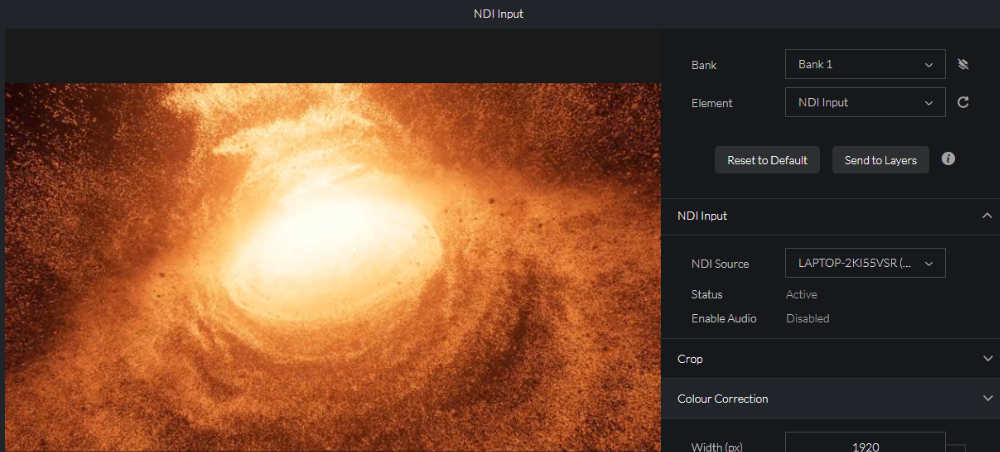
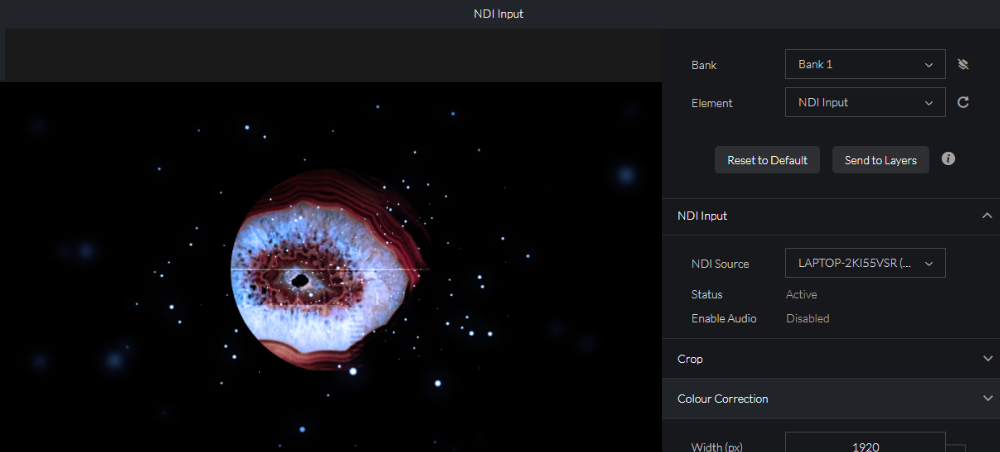
changes made as per PR comments

diff --git a/prismdocs/player/quick-start/navigation.md b/prismdocs/player/quick-start/navigation.md
@@ -6,11 +6,19 @@ sidebar_label: Navigation
 
 import Keys from '@site/src/components/key.ts';
 
-**Prism Player**'s user interface is organized into three main sections:
+**Prism Player**'s user interface is organised into three main sections:
 
-- [Main Menu](#header-menu)
+- [Main Menu](#main-menu)
+  - [App Logo](#app-logo)
+  - [File](#file)
+  - [Edit](#edit)
+  - [View](#view)
+  - [Audio](#audio)
+  - [Video](#video)
+  - [Help](#help)
 - [View Tabs](#view-tabs)
 - [Status Bar](#status-bar)
+- [Multi Selection](#multi-selection)
 
 ## Main Menu
 ![Prism Player File Menu Open Recent](/prism-images/navigation/player-header-menu.png)
@@ -109,7 +117,7 @@ This bar shows the following app informations at a glance.
 
 - App performance metrics - The full performance metrics are shown in the [System Info](../settings/settings-system-info.md) page in **Settings**.
 - Prism Player release version.
-- User interface connection status LED - red when disconnected, green when connected to the Server.
+- User interface connection status indicator - red when disconnected, green when connected to the Server.
 
 ## Multi Selection
 

diff --git a/prismdocs/prism/quick-start/navigation.md b/prismdocs/prism/quick-start/navigation.md
@@ -6,11 +6,19 @@ sidebar_label: Navigation
 
 import Keys from '@site/src/components/key.ts';
 
-**Prism**'s user interface is organized into three main sections:
+**Prism**'s user interface is organised into three main sections:
 
-- [Main Menu](#header-menu)
+- [Main Menu](#main-menu)
+  - [App Logo](#app-logo)
+  - [File](#file)
+  - [Edit](#edit)
+  - [View](#view)
+  - [Audio](#audio)
+  - [Video](#video)
+  - [Help](#help)
 - [View Tabs](#view-tabs)
 - [Status Bar](#status-bar)
+- [Multi Selection](#multi-selection)
 
 ## Main Menu
 ![Prism File Menu Open Recent](/prism-images/navigation/prism-header-menu.png)
@@ -111,7 +119,7 @@ This bar shows the following app informations at a glance.
 
 - App performance metrics - The full performance metrics are shown in the [System Info](../settings/settings-system-info.md) page in **Settings**.
 - Prism release version.
-- User interface connection status LED - red when disconnected, green when connected to the Server.
+- User interface connection status indicator - red when disconnected, green when connected to the Server.
 
 ## Multi Selection
 

diff --git a/prismdocs/shared/quick-start/navigation.md b/prismdocs/shared/quick-start/navigation.md
@@ -6,11 +6,19 @@ sidebar_label: Navigation
 
 import Keys from '@site/src/components/key.ts';
 
-**{{PRISM-APP}}**'s user interface is organized into three main sections:
+**{{PRISM-APP}}**'s user interface is organised into three main sections:
 
-- [Main Menu](#header-menu)
+- [Main Menu](#main-menu)
+  - [App Logo](#app-logo)
+  - [File](#file)
+  - [Edit](#edit)
+  - [View](#view)
+  - [Audio](#audio)
+  - [Video](#video)
+  - [Help](#help)
 - [View Tabs](#view-tabs)
 - [Status Bar](#status-bar)
+- [Multi Selection](#multi-selection)
 
 ## Main Menu
 ![{{PRISM-APP}} File Menu Open Recent](/prism-images/navigation/{{PRISM-APP-LOWER}}-header-menu.png)
@@ -163,7 +171,7 @@ This bar shows the following app informations at a glance.
 
 - App performance metrics - The full performance metrics are shown in the [System Info](../settings/settings-system-info.md) page in **Settings**.
 - {{PRISM-APP}} release version.
-- User interface connection status LED - red when disconnected, green when connected to the Server.
+- User interface connection status indicator - red when disconnected, green when connected to the Server.
 
 ## Multi Selection
 

diff --git a/prismdocs/prism/play/layer-controls.md b/prismdocs/prism/play/layer-controls.md
@@ -18,6 +18,7 @@ Similar to the [Preview](../quick-start/preview.md#adjustments) adjustments, the
 - [Colour Correction](#colour-correction)
 - [Transformation](#transformation)
 - [Rendering](#rendering)
+  - [Virtual Return Properties](#virtual-return-properties)
 
 Any adjustment made will directly change the layer properties, triggering a bank element may override this, if any changes were made in the [Preview](../quick-start/preview.md).
 
@@ -67,7 +68,7 @@ The **Player Controls** has check boxes against its properties so that users can
 |   Item                   |  Description  |
 |------------------------------|---------- |
 | **Cross Fade Duration**      | Cross Fade Duration of the layer.  |
-|  **Play Modes** | <Keys.PrismKey>Play List</Keys.PrismKey> - Play through all the media in the bank that the current element belongs to. <br/> <Keys.PrismKey>Loop</Keys.PrismKey> - Continuously play the same media element.<br/><Keys.PrismKey>Shuffle</Keys.PrismKey> - Randomly select and play media from the bank that the element belongs to.<br/><Keys.PrismKey>Play Once</Keys.PrismKey> - Play the media once and then display the last frame.<br/><Keys.PrismKey>Pause</Keys.PrismKey> - Stay on the current frame.<br/> <Keys.PrismKey>In Frame</Keys.PrismKey> - Display the first frame.<br/> <Keys.PrismKey>Out Frame</Keys.PrismKey> - Display the last frame. <br/>  <Keys.PrismKey>Timecode</Keys.PrismKey> - Allows playback to be synchronized to an external or internal timecode signal.|
+|  **Play Modes** | <Keys.PrismKey>Play List</Keys.PrismKey> - Play through all the media in the bank that the current element belongs to. <br/> <Keys.PrismKey>Loop</Keys.PrismKey> - Continuously play the same media element.<br/><Keys.PrismKey>Shuffle</Keys.PrismKey> - Randomly select and play media from the bank that the element belongs to.<br/><Keys.PrismKey>Play Once</Keys.PrismKey> - Play the media once and then display the last frame.<br/><Keys.PrismKey>Pause</Keys.PrismKey> - Stay on the current frame.<br/> <Keys.PrismKey>In Frame</Keys.PrismKey> - Display the first frame.<br/> <Keys.PrismKey>Out Frame</Keys.PrismKey> - Display the last frame. <br/>  <Keys.PrismKey>Timecode</Keys.PrismKey> - Allows playback to be synchronised to an external or internal timecode signal.|
 | **Aspect Modes**              | - **Fit**: Adjusts the content to **cover the entire surface, distorting** it if necessary. It does **not preserve the aspect ratio**, but ensures **no cropping** and **no black bars**. <br/> - **Box**: Adjusts the content to **fit entirely within the surface** while **preserving aspect ratio**. This ensures the whole content is visible, without cropping or distortion, but may introduce **black bars** (letterboxing or pillarboxing) to fill unused space.<br/> - **Center**: Adjusts the content to **fill the surface** while **preserving its original aspect ratio**. This may result in **cropping** around the edges. The content remains **centered** and is **not distorted**.<br/> - **Window**: Displays the content at its **original resolution and aspect ratio**, without any scaling. If the content is larger than the surface, parts of it may be **cropped**. There is **no distortion** and **no scaling** applied.|
 | **Trim In (%)** | Trim In of the layer. |
 | **Trim Out (%)** | Trim Out of the layer. |
@@ -127,7 +128,7 @@ This area controls the **Rendering** of Synergy Pixel Map texture.
 | <p style={{width: '150px', margin: '0'}}>Item</p> |  Description |
 |-----------------|------------|
 | **Render Layer** | Toggle the visibility of the layer. |
-| **Blend Modes**  | Blend mode is used to determine how multiple layers are combined to create a final visual result on a Surface. It controls how the pixel colours of one layer interact with the pixels of layers beneath it.<br/><br/> - **Additive**: Combines the values of the pixels, creating a blended image. <br/> - **Alpha (Default)**: Allows the use of transparent areas which need to be specified when created. <br/> - **Darken**: Keeps the darkest colour from the blended Layers.<br/> -  **Difference**: Subtracts one colour value from the other and uses the result as the pixel colour to display. <br/> - **Exclude**: Similar to Difference mode but with lower contrast.<br/> - **Intensity Mix**: Blends Layers based on their intensity<br/> - **Inverse Luma**: Excludes areas of the image based on the luminosity of the pixels and the specified threshold.<br/> - **Inverse Mask**: Uses the layer as a mask for the layer below showing the image in the dark areas.<br/> - **Lighten**: Shows the highest of each colour component used across layers.<br/> - **Luma**: Excludes areas of the image based on the luminosity of the pixels and the specified threshold.<br/> - **Mask**: Uses the layer as a mask for the layer below showing the image in the light areas.<br/> - **Multiply**: Takes the values of the images, multiplys them together and returns the resulting value.<br/> - **Not Additive Mixing**: Non Additive Mixing shows the brightest pixel of the layers.<br/> - **Opaque**: Fully solid with no transparency.<br/> - **Screen** : Takes the values of the pixels in the two layers inverts, multiplys, and then inverts them again.<br/> - **Subtract**: The value of one layer is taken from the other layer. The resulting number is then used for the colour value.<br/> - **Tom Mask**: When fully applied, it completely masks the layer below, functioning similarly to Multiply. Can fix issues when multiplying by 0.<br/><br/>*Note: Final result will depend on the [render order](../settings/settings-playback#renderer)*|
+| **Blend Modes**  | Blend mode is used to determine how multiple layers are combined to create a final visual result on a Surface. It controls how the pixel colours of one layer interact with the pixels of layers beneath it.<br/><br/> - **Additive**: Combines the values of the pixels, creating a blended image. <br/> - **Alpha (Default)**: Allows the use of transparent areas which need to be specified when created. <br/> - **Darken**: Keeps the darkest colour from the blended Layers.<br/> -  **Difference**: Subtracts one colour value from the other and uses the result as the pixel colour to display. <br/> - **Exclude**: Similar to Difference mode but with lower contrast.<br/> - **Intensity Mix**: Blends Layers based on their intensity<br/> - **Inverse Luma**: Excludes areas of the image based on the luminosity of the pixels and the specified threshold.<br/> - **Inverse Mask**: Uses the layer as a mask for the layer below showing the image in the dark areas.<br/> - **Lighten**: Shows the highest of each colour component used across layers.<br/> - **Luma**: Excludes areas of the image based on the luminosity of the pixels and the specified threshold.<br/> - **Mask**: Uses the layer as a mask for the layer below showing the image in the light areas.<br/> - **Multiply**: Takes the values of the images, multiplies them together and returns the resulting value.<br/> - **Not Additive Mixing**: Non Additive Mixing shows the brightest pixel of the layers.<br/> - **Opaque**: Fully solid with no transparency.<br/> - **Screen** : Takes the values of the pixels in the two layers inverts, multiplies, and then inverts them again.<br/> - **Subtract**: The value of one layer is taken from the other layer. The resulting number is then used for the colour value.<br/> - **Tom Mask**: When fully applied, it completely masks the layer below, functioning similarly to Multiply. Can fix issues when multiplying by 0.<br/><br/>*Note: Final result will depend on the [render order](../settings/settings-playback#renderer)*|
 | **Blend Amount (%)** | The blend amount controls the transition between the source (blended layer) and the destination (background layer) when applying a blend mode. It determines how much influence the blended source has over the final output, effectively interpolating between the two. When the blend amount is set to zero, the operation acts as a pass-through, meaning the destination remains unchanged, as no blending is applied.  |
 | **Enable Adjustments** | Enable / disable Layer adjustments e.g crop, colour correction, transformations.|
 

diff --git a/prismdocs/shared/play/layer-controls.md b/prismdocs/shared/play/layer-controls.md
@@ -18,6 +18,7 @@ Similar to the [Preview](../quick-start/preview.md#adjustments) adjustments, the
 - [Colour Correction](#colour-correction)
 - [Transformation](#transformation)
 - [Rendering](#rendering)
+  - [Virtual Return Properties](#virtual-return-properties)
 
 Any adjustment made will directly change the layer properties, triggering a bank element may override this, if any changes were made in the [Preview](../quick-start/preview.md).
 
@@ -68,7 +69,7 @@ The **Player Controls** has check boxes against its properties so that users can
 |   Item                   |  Description  |
 |------------------------------|---------- |
 | **Cross Fade Duration**      | Cross Fade Duration of the layer.  |
-|  **Play Modes** | <Keys.PrismKey>Play List</Keys.PrismKey> - Play through all the media in the bank that the current element belongs to. <br/> <Keys.PrismKey>Loop</Keys.PrismKey> - Continuously play the same media element.<br/><Keys.PrismKey>Shuffle</Keys.PrismKey> - Randomly select and play media from the bank that the element belongs to.<br/><Keys.PrismKey>Play Once</Keys.PrismKey> - Play the media once and then display the last frame.<br/><Keys.PrismKey>Pause</Keys.PrismKey> - Stay on the current frame.<br/> <Keys.PrismKey>In Frame</Keys.PrismKey> - Display the first frame.<br/> <Keys.PrismKey>Out Frame</Keys.PrismKey> - Display the last frame. <br/>  <Keys.PrismKey>Timecode</Keys.PrismKey> - Allows playback to be synchronized to an external or internal timecode signal.|
+|  **Play Modes** | <Keys.PrismKey>Play List</Keys.PrismKey> - Play through all the media in the bank that the current element belongs to. <br/> <Keys.PrismKey>Loop</Keys.PrismKey> - Continuously play the same media element.<br/><Keys.PrismKey>Shuffle</Keys.PrismKey> - Randomly select and play media from the bank that the element belongs to.<br/><Keys.PrismKey>Play Once</Keys.PrismKey> - Play the media once and then display the last frame.<br/><Keys.PrismKey>Pause</Keys.PrismKey> - Stay on the current frame.<br/> <Keys.PrismKey>In Frame</Keys.PrismKey> - Display the first frame.<br/> <Keys.PrismKey>Out Frame</Keys.PrismKey> - Display the last frame. <br/>  <Keys.PrismKey>Timecode</Keys.PrismKey> - Allows playback to be synchronised to an external or internal timecode signal.|
 | **Aspect Modes**              | - **Fit**: Adjusts the content to **cover the entire surface, distorting** it if necessary. It does **not preserve the aspect ratio**, but ensures **no cropping** and **no black bars**. <br/> - **Box**: Adjusts the content to **fit entirely within the surface** while **preserving aspect ratio**. This ensures the whole content is visible, without cropping or distortion, but may introduce **black bars** (letterboxing or pillarboxing) to fill unused space.<br/> - **Center**: Adjusts the content to **fill the surface** while **preserving its original aspect ratio**. This may result in **cropping** around the edges. The content remains **centered** and is **not distorted**.<br/> - **Window**: Displays the content at its **original resolution and aspect ratio**, without any scaling. If the content is larger than the surface, parts of it may be **cropped**. There is **no distortion** and **no scaling** applied.|
 | **Trim In (%)** | Trim In of the layer. |
 | **Trim Out (%)** | Trim Out of the layer. |
@@ -129,7 +130,7 @@ This area controls the **Rendering** of Synergy Pixel Map texture.
 | <p style={{width: '150px', margin: '0'}}>Item</p> |  Description |
 |-----------------|------------|
 | **Render Layer** | Toggle the visibility of the layer. |
-| **Blend Modes**  | Blend mode is used to determine how multiple layers are combined to create a final visual result on a Surface. It controls how the pixel colours of one layer interact with the pixels of layers beneath it.<br/><br/> - **Additive**: Combines the values of the pixels, creating a blended image. <br/> - **Alpha (Default)**: Allows the use of transparent areas which need to be specified when created. <br/> - **Darken**: Keeps the darkest colour from the blended Layers.<br/> -  **Difference**: Subtracts one colour value from the other and uses the result as the pixel colour to display. <br/> - **Exclude**: Similar to Difference mode but with lower contrast.<br/> - **Intensity Mix**: Blends Layers based on their intensity<br/> - **Inverse Luma**: Excludes areas of the image based on the luminosity of the pixels and the specified threshold.<br/> - **Inverse Mask**: Uses the layer as a mask for the layer below showing the image in the dark areas.<br/> - **Lighten**: Shows the highest of each colour component used across layers.<br/> - **Luma**: Excludes areas of the image based on the luminosity of the pixels and the specified threshold.<br/> - **Mask**: Uses the layer as a mask for the layer below showing the image in the light areas.<br/> - **Multiply**: Takes the values of the images, multiplys them together and returns the resulting value.<br/> - **Not Additive Mixing**: Non Additive Mixing shows the brightest pixel of the layers.<br/> - **Opaque**: Fully solid with no transparency.<br/> - **Screen** : Takes the values of the pixels in the two layers inverts, multiplys, and then inverts them again.<br/> - **Subtract**: The value of one layer is taken from the other layer. The resulting number is then used for the colour value.<br/> - **Tom Mask**: When fully applied, it completely masks the layer below, functioning similarly to Multiply. Can fix issues when multiplying by 0.<br/><br/>*Note: Final result will depend on the [render order](../settings/settings-playback#renderer)*|
+| **Blend Modes**  | Blend mode is used to determine how multiple layers are combined to create a final visual result on a Surface. It controls how the pixel colours of one layer interact with the pixels of layers beneath it.<br/><br/> - **Additive**: Combines the values of the pixels, creating a blended image. <br/> - **Alpha (Default)**: Allows the use of transparent areas which need to be specified when created. <br/> - **Darken**: Keeps the darkest colour from the blended Layers.<br/> -  **Difference**: Subtracts one colour value from the other and uses the result as the pixel colour to display. <br/> - **Exclude**: Similar to Difference mode but with lower contrast.<br/> - **Intensity Mix**: Blends Layers based on their intensity<br/> - **Inverse Luma**: Excludes areas of the image based on the luminosity of the pixels and the specified threshold.<br/> - **Inverse Mask**: Uses the layer as a mask for the layer below showing the image in the dark areas.<br/> - **Lighten**: Shows the highest of each colour component used across layers.<br/> - **Luma**: Excludes areas of the image based on the luminosity of the pixels and the specified threshold.<br/> - **Mask**: Uses the layer as a mask for the layer below showing the image in the light areas.<br/> - **Multiply**: Takes the values of the images, multiplies them together and returns the resulting value.<br/> - **Not Additive Mixing**: Non Additive Mixing shows the brightest pixel of the layers.<br/> - **Opaque**: Fully solid with no transparency.<br/> - **Screen** : Takes the values of the pixels in the two layers inverts, multiplies, and then inverts them again.<br/> - **Subtract**: The value of one layer is taken from the other layer. The resulting number is then used for the colour value.<br/> - **Tom Mask**: When fully applied, it completely masks the layer below, functioning similarly to Multiply. Can fix issues when multiplying by 0.<br/><br/>*Note: Final result will depend on the [render order](../settings/settings-playback#renderer)*|
 | **Blend Amount (%)** | The blend amount controls the transition between the source (blended layer) and the destination (background layer) when applying a blend mode. It determines how much influence the blended source has over the final output, effectively interpolating between the two. When the blend amount is set to zero, the operation acts as a pass-through, meaning the destination remains unchanged, as no blending is applied.  |
 | **Enable Adjustments** | Enable / disable Layer adjustments e.g crop, colour correction, transformations.|
 

diff --git a/prismdocs/shared/play/play.md b/prismdocs/shared/play/play.md
@@ -6,13 +6,13 @@ sidebar_label: Play
 
 {{PRISM-START-COMMENT}}
 
-The **Play page** is the main workspace for managing and playing media. It allows you to organize media into **Banks**, control playback on **Layers**, and preview content before it is loaded live.
+The **Play page** is the main workspace for managing and playing media. It allows you to organise media into **Banks**, control playback on **Layers**, and preview content before it is loaded live.
 
 Media can be adjusted in the **Preview** before being launched on a layer, and layer-specific parameters can be modified using the **Layer Controls** panel.
 {{PRISM-END-COMMENT}}
 
 {{PLAYER-START-COMMENT}}
-This view shows media content organized in a **Bank** and gives control over media playback.
+This view shows media content organised in a **Bank** and gives control over media playback.
 {{PLAYER-END-COMMENT}}
 
 ![{{PRISM-APP}}](/prism-images/play/{{PRISM-APP-LOWER}}-play-view.png)

diff --git a/prismdocs/player/introduction.md b/prismdocs/player/introduction.md
@@ -5,7 +5,7 @@ sidebar_label: Introduction
 ---
 **Prism Player** is a free standalone auxiliary application developed by **Avolites** and part of the **Prism Suite** of applications.
 
-It allows for easy previewing of media files as well as for preparing and converting them using the **AiM codec**, ready for use in **Ai** or [Prism](../prism/introduction). Not only does **Prism Player** playback your favourite codecs such as *H264*, *HAP* and *Prores*, but it also supports playback of **NotchLC**.
+It allows for easy previewing of media files as well as for preparing and converting them using the **AiM codec**, ready for use in **Ai** or [Prism](../prism/introduction). Not only does **Prism Player** playback your favourite codecs such as *H264*, *HAP* and *ProRes*, but it also supports playback of **NotchLC**.
 
 **Prism Player** requires a license to run. Please refer to the [licensing page](/prism/licensing#prism-player) in this manual.
 

diff --git a/prismdocs/player/play/play.md b/prismdocs/player/play/play.md
@@ -4,7 +4,7 @@ title: Play
 sidebar_label: Play
 ---
 
-This view shows media content organized in a **Bank** and gives control over media playback.
+This view shows media content organised in a **Bank** and gives control over media playback.
 
 ![Prism Player](/prism-images/play/player-play-view.png)
 

diff --git a/prismdocs/prism/introduction.md b/prismdocs/prism/introduction.md
@@ -3,7 +3,7 @@ id: introduction
 title: Introduction
 sidebar_label: Introduction
 ---
-**Prism** is specialized software developed by **Avolites**, tailored for media playback and designed specifically for the live events and entertainment industry. 
+**Prism** is specialised software developed by **Avolites**, tailored for media playback and designed specifically for the live events and entertainment industry. 
 
 **Prism** can playback and control video files, virtual returns and live inputs, such as USB capture devices or webcams. These media types can be stored across multiple banks and can be viewed in the [Preview](./quick-start/preview.md) window or applied to any of the layers within a [Surface](./stage/surfaces.md) to create a mix.
 

diff --git a/prismdocs/prism/play/layers.md b/prismdocs/prism/play/layers.md
@@ -39,7 +39,7 @@ The layer has some controls, which can adjust the layers in real-time.
 |  **Mute** | Mute / unmute the audio from the layer |
 |  **Volume** | Volume adjustment of the layer |
 |  **Speed** | Speed adjustment of the layer |
-|  **Play Modes** | <Keys.PrismKey>Play List</Keys.PrismKey> - Play through all the media in the bank that the current element belongs to. <br/> <Keys.PrismKey>Loop</Keys.PrismKey> - Continuously play the same media element<br/><Keys.PrismKey>Shuffle</Keys.PrismKey> - Randomly select and play media from the bank that the element belongs to.<br/><Keys.PrismKey>Play Once</Keys.PrismKey> - Play the media once and then display the last frame.<br/><Keys.PrismKey>Pause</Keys.PrismKey> - Stay on the current frame.<br/> <Keys.PrismKey>In Frame</Keys.PrismKey> - Display the first frame.<br/> <Keys.PrismKey>Out Frame</Keys.PrismKey> - Display the last frame. <br/> <Keys.PrismKey>Timecode</Keys.PrismKey> - Allows playback to be synchronized to an external or internal timecode signal.|
+|  **Play Modes** | <Keys.PrismKey>Play List</Keys.PrismKey> - Play through all the media in the bank that the current element belongs to. <br/> <Keys.PrismKey>Loop</Keys.PrismKey> - Continuously play the same media element<br/><Keys.PrismKey>Shuffle</Keys.PrismKey> - Randomly select and play media from the bank that the element belongs to.<br/><Keys.PrismKey>Play Once</Keys.PrismKey> - Play the media once and then display the last frame.<br/><Keys.PrismKey>Pause</Keys.PrismKey> - Stay on the current frame.<br/> <Keys.PrismKey>In Frame</Keys.PrismKey> - Display the first frame.<br/> <Keys.PrismKey>Out Frame</Keys.PrismKey> - Display the last frame. <br/> <Keys.PrismKey>Timecode</Keys.PrismKey> - Allows playback to be synchronised to an external or internal timecode signal.|
 |  **Clear Layer** | <Keys.PrismKey>Clear Layer</Keys.PrismKey> Reset the layer |
 |  **Solo** | Click on the <Keys.PrismKey>Solo</Keys.PrismKey> button to solo this layer. This will be the only layer present in the surface mix |
 

diff --git a/prismdocs/prism/play/play.md b/prismdocs/prism/play/play.md
@@ -4,7 +4,7 @@ title: Play
 sidebar_label: Play
 ---
 
-The **Play page** is the main workspace for managing and playing media. It allows you to organize media into **Banks**, control playback on **Layers**, and preview content before it is loaded live.
+The **Play page** is the main workspace for managing and playing media. It allows you to organise media into **Banks**, control playback on **Layers**, and preview content before it is loaded live.
 
 Media can be adjusted in the **Preview** before being launched on a layer, and layer-specific parameters can be modified using the **Layer Controls** panel.
 

diff --git a/prismdocs/prism/quick-start/preview.md b/prismdocs/prism/quick-start/preview.md
@@ -63,7 +63,7 @@ The **Player Controls** have check boxes against their properties, so that users
 |   Item                   |  Description  |
 |------------------------------|---------- |
 | **Cross Fade Duration**      | Cross Fade Duration of the layer.  |
-|  **Play Modes** | <Keys.PrismKey>Play List</Keys.PrismKey> - Play through all the media in the bank that the current element belongs to. <br/> <Keys.PrismKey>Loop</Keys.PrismKey> - Continuously play the same media element.<br/><Keys.PrismKey>Shuffle</Keys.PrismKey> - Randomly select and play media from the bank that the element belongs to.<br/><Keys.PrismKey>Play Once</Keys.PrismKey> - Play the media once and then display the last frame.<br/><Keys.PrismKey>Pause</Keys.PrismKey> - Stay on the current frame.<br/> <Keys.PrismKey>In Frame</Keys.PrismKey> - Display the first frame.<br/> <Keys.PrismKey>Out Frame</Keys.PrismKey> - Display the last frame. <br/>  <Keys.PrismKey>Timecode</Keys.PrismKey> - Allows playback to be synchronized to an external or internal timecode signal.|
+|  **Play Modes** | <Keys.PrismKey>Play List</Keys.PrismKey> - Play through all the media in the bank that the current element belongs to. <br/> <Keys.PrismKey>Loop</Keys.PrismKey> - Continuously play the same media element.<br/><Keys.PrismKey>Shuffle</Keys.PrismKey> - Randomly select and play media from the bank that the element belongs to.<br/><Keys.PrismKey>Play Once</Keys.PrismKey> - Play the media once and then display the last frame.<br/><Keys.PrismKey>Pause</Keys.PrismKey> - Stay on the current frame.<br/> <Keys.PrismKey>In Frame</Keys.PrismKey> - Display the first frame.<br/> <Keys.PrismKey>Out Frame</Keys.PrismKey> - Display the last frame. <br/>  <Keys.PrismKey>Timecode</Keys.PrismKey> - Allows playback to be synchronised to an external or internal timecode signal.|
 | **Aspect Modes**              | - **Fit**: Adjusts the content to **cover the entire surface, distorting** it if necessary. It does **not preserve the aspect ratio**, but ensures **no cropping** and **no black bars**. <br/> - **Box**: Adjusts the content to **fit entirely within the surface** while **preserving aspect ratio**. This ensures the whole content is visible, without cropping or distortion, but may introduce **black bars** (letterboxing or pillarboxing) to fill unused space.<br/> - **Center**: Adjusts the content to **fill the surface** while **preserving its original aspect ratio**. This may result in **cropping** around the edges. The content remains **centered** and is **not distorted**.<br/> - **Window**: Displays the content at its **original resolution and aspect ratio**, without any scaling. If the content is larger than the surface, parts of it may be **cropped**. There is **no distortion** and **no scaling** applied.|
 | **Trim In (%)** | Trim In of the layer. |
 | **Trim Out (%)** | Trim Out of the layer. |